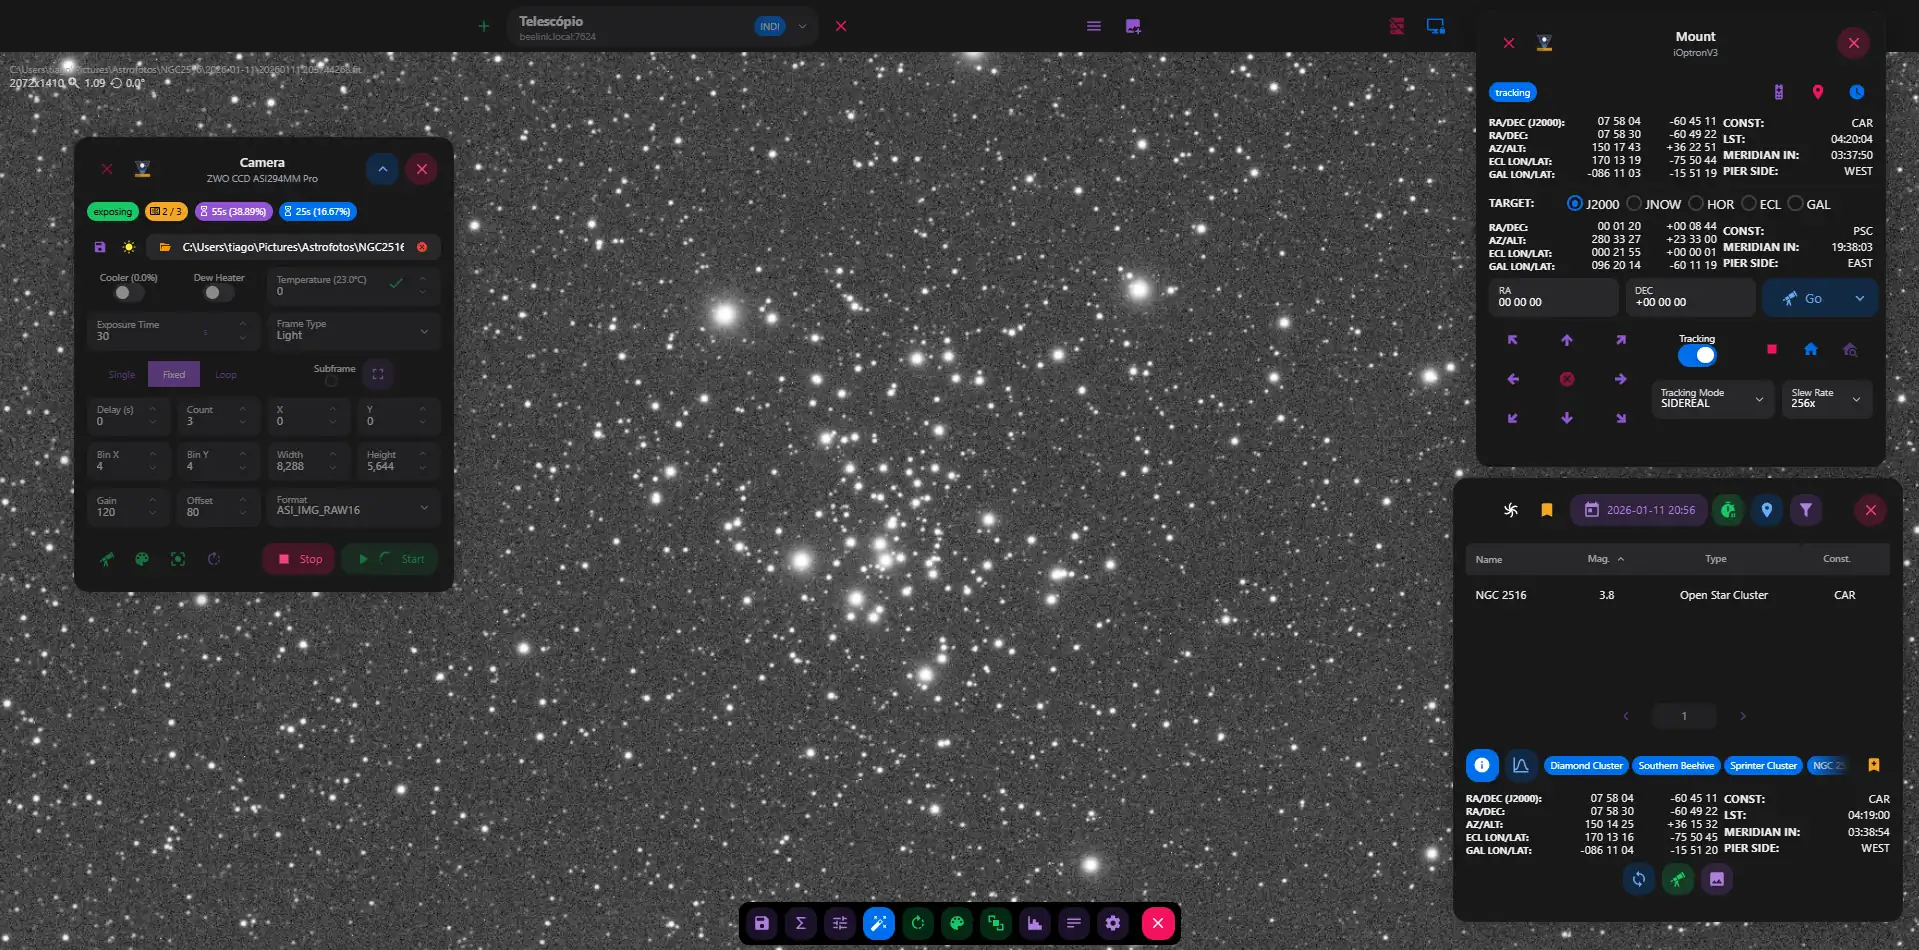
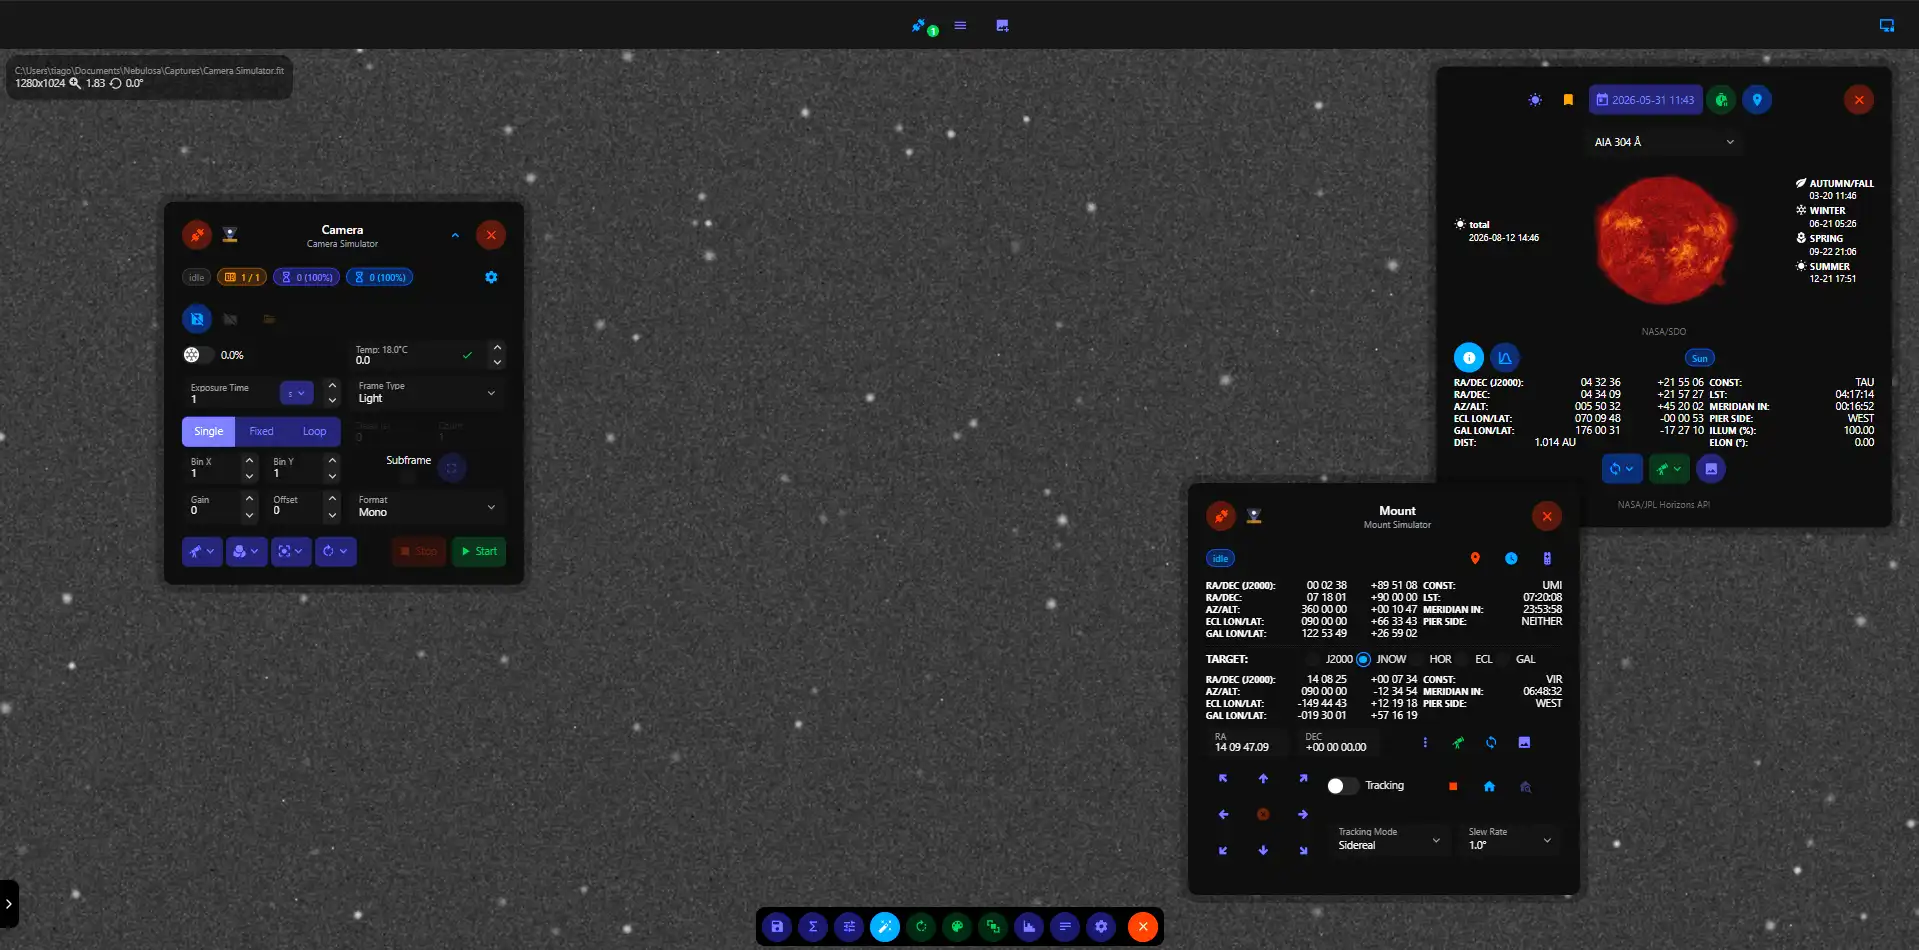
implement api

diff --git a/README.md b/README.md
@@ -3,6 +3,7 @@
 The complete integrated solution for all of your astronomical imaging needs.
 
 [![Active Development](https://img.shields.io/badge/Maintenance%20Level-Actively%20Developed-brightgreen.svg)](https://gist.github.com/cheerfulstoic/d107229326a01ff0f333a1d3476e068d)
+[![CI](https://github.com/tiagohm/nebulosa.app/actions/workflows/ci.yml/badge.svg)](https://github.com/tiagohm/nebulosa.app/actions/workflows/ci.yml)
 
 ![](home.webp)
 